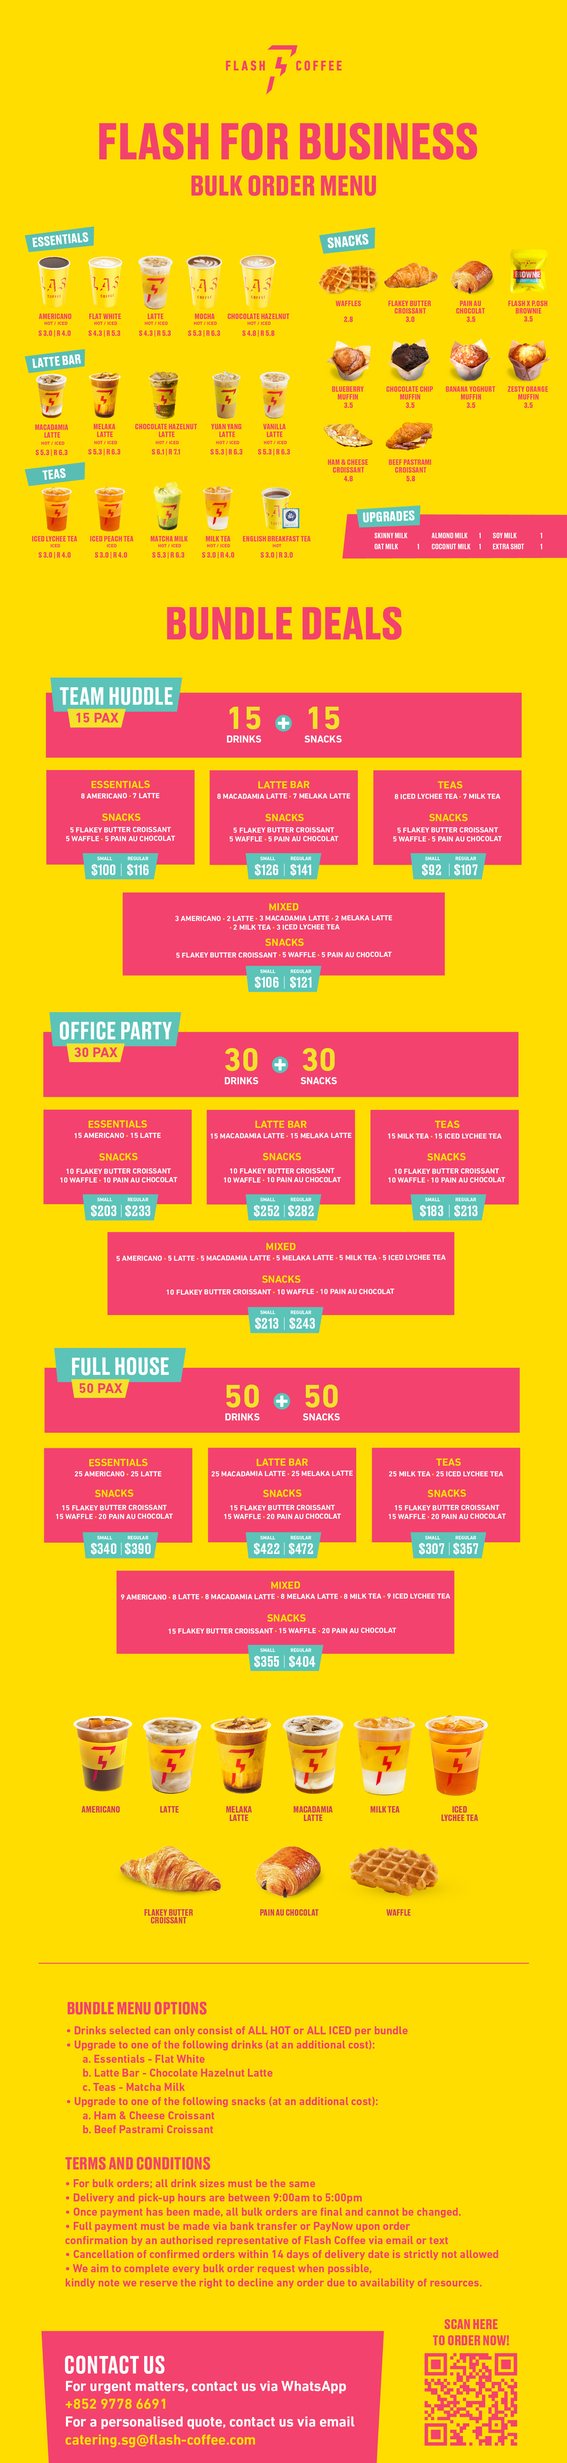
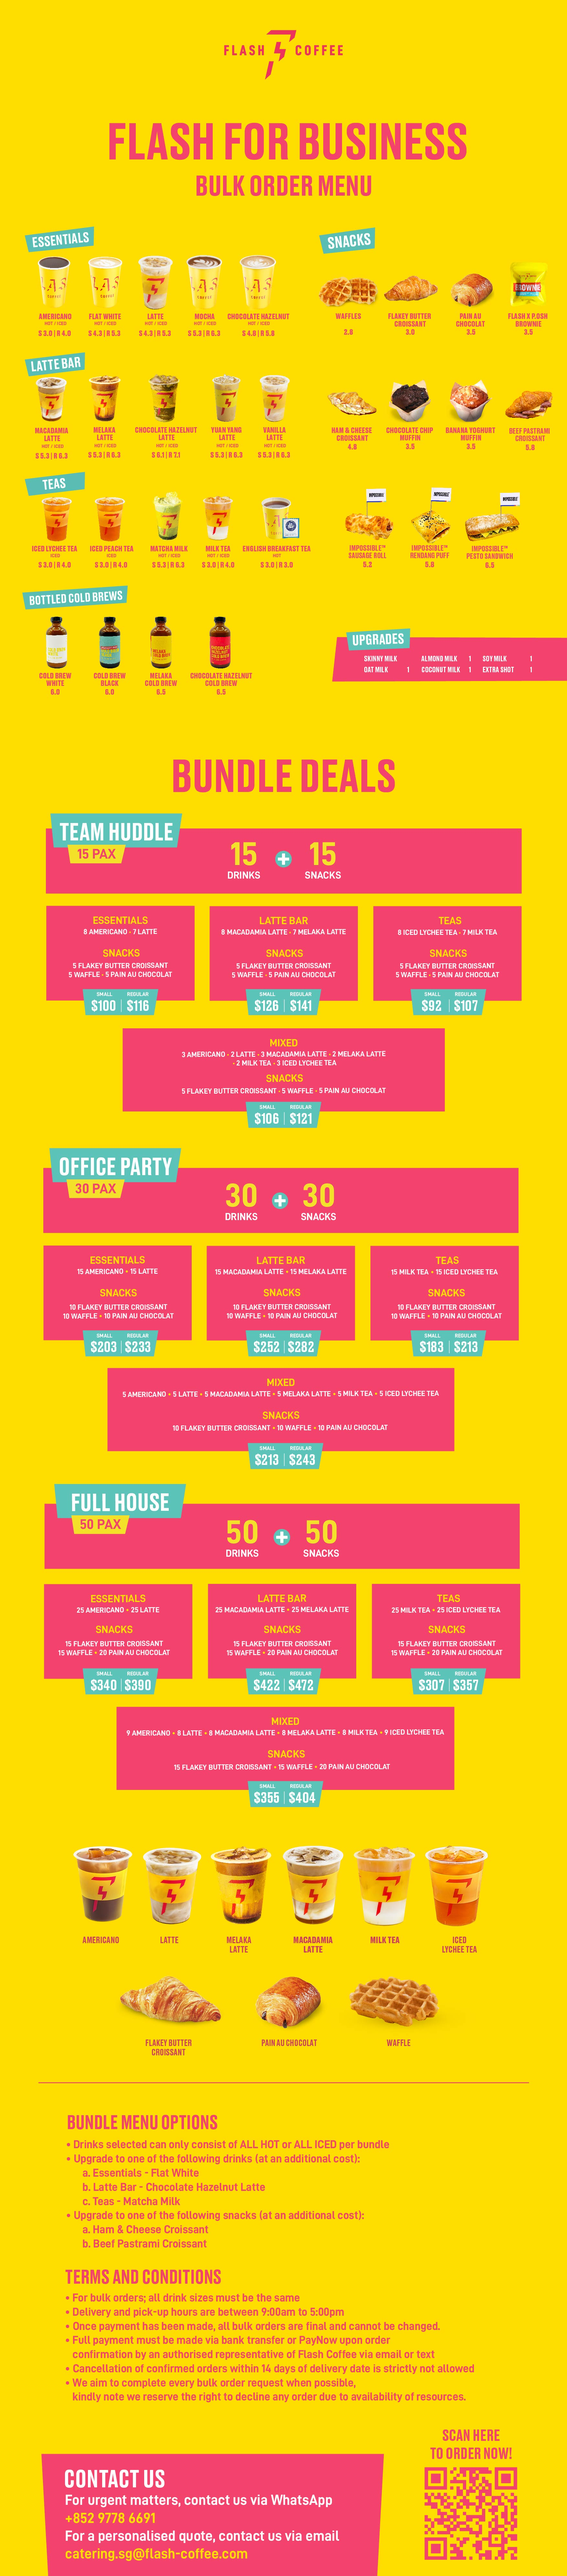
2.1

diff --git a/components/Bundle1.js b/components/Bundle1.js
@@ -8,8 +8,39 @@ import bundlepic from '../public/coffee pic/bundle.JPG'
 
 function Bundle1(props) {
 
+
+  const [essential, setessential] = useState(0);
+  const [essentialprice, setessentialprice] = useState(116);
+  const [plus1, setplus1] = useState(0);
+  const [plus2, setplus2] = useState(0);
+  const [plus3, setplus3] = useState(0);
+  const [essentialtotal, setessentialtotal] = useState(0);
+  const [eoption1, seteoption1] = useState("Hot");
+  const [eoption2, seteoption2] = useState("Americano");
+  const [eoption3, seteoption3] = useState("Latte");
+  const [eoption4, seteoption4] = useState("Flakey Butter Croissant");
+  const [eoption5, seteoption5] = useState("Waffles");
+  const [eoption6, seteoption6] = useState("Pain au Chocolat");
+
+  const [lattebar, setlattebar] = useState(0);
+  const [lattebarprice, setlattebarprice] = useState(141);
+  const [lattebartotal, setlattebartotal] = useState(0);
+  const [lplus1, setlplus1] = useState(0);
+  const [lplus2, setlplus2] = useState(0);
+  const [lplus3, setlplus3] = useState(0);
+  const [lplus4, setlplus4] = useState(0);
+  const [lplus5, setlplus5] = useState(0);
+
+  const [loption1, setloption1] = useState("Hot");
+  const [loption2, setloption2] = useState("Macadamia Latte");
+  const [loption3, setloption3] = useState("Melaka Latte");
+  const [loption4, setloption4] = useState("Flakey Butter Croissant");
+  const [loption5, setloption5] = useState("Waffles");
+  const [loption6, setloption6] = useState("Pain au Chocolat");
+
+
   const [tea, settea] = useState(0);
-  const [teaprice, setteaprice] = useState(110);
+  const [teaprice, setteaprice] = useState(107);
   const [teatotal, setteatotal] = useState(0);
   const [tplus1, settplus1] = useState(0);
   const [tplus2, settplus2] = useState(0);
@@ -25,7 +56,7 @@ function Bundle1(props) {
   const [toption6, settoption6] = useState("Pain au Chocolat");
 
   const [mixed, setmixed] = useState(0);
-  const [mixedprice, setmixedprice] = useState(124);
+  const [mixedprice, setmixedprice] = useState(121);
   const [mixedtotal, setmixedtotal] = useState(0);
   const [mplus1, setmplus1] = useState(0);
   const [mplus2, setmplus2] = useState(0);
@@ -45,34 +76,6 @@ function Bundle1(props) {
   const [moption9, setmoption9] = useState("Waffles");
   const [moption10, setmoption10] = useState("Pain au Chocolat");
 
-  const [essential, setessential] = useState(0);
-  const [essentialprice, setessentialprice] = useState(119);
-  const [plus1, setplus1] = useState(0);
-  const [plus2, setplus2] = useState(0);
-  const [plus3, setplus3] = useState(0);
-  const [essentialtotal, setessentialtotal] = useState(0);
-  const [eoption1, seteoption1] = useState("Hot");
-  const [eoption2, seteoption2] = useState("Americano");
-  const [eoption3, seteoption3] = useState("Latte");
-  const [eoption4, seteoption4] = useState("Flakey Butter Croissant");
-  const [eoption5, seteoption5] = useState("Waffles");
-  const [eoption6, seteoption6] = useState("Pain au Chocolat");
-
-  const [lattebar, setlattebar] = useState(0);
-  const [lattebarprice, setlattebarprice] = useState(145);
-  const [lattebartotal, setlattebartotal] = useState(0);
-  const [lplus1, setlplus1] = useState(0);
-  const [lplus2, setlplus2] = useState(0);
-  const [lplus3, setlplus3] = useState(0);
-  const [lplus4, setlplus4] = useState(0);
-  const [lplus5, setlplus5] = useState(0);
-
-  const [loption1, setloption1] = useState("Hot");
-  const [loption2, setloption2] = useState("Macadamia Latte");
-  const [loption3, setloption3] = useState("Melaka Latte");
-  const [loption4, setloption4] = useState("Flakey Butter Croissant");
-  const [loption5, setloption5] = useState("Waffles");
-  const [loption6, setloption6] = useState("Pain au Chocolat");
 
   const[text,settext] = useState( {summary:'',bundle1set1:'',price:'',total:'',option1:'',option2:'',option3:'',option4:'',option5:'',option6:''})
   const[text2,settext2] = useState( {summary:'',bundle1set2:'',price:'',total:'',option1:'',option2:'',option3:'',option4:'',option5:'',option6:''})
@@ -392,15 +395,15 @@ console.log(text4)
 
   useEffect(() => {
     if (props.size == "Regular") {
-      setessentialprice(119);
-      setteaprice(110);
-      setlattebarprice(145);
-      setmixedprice(124);
+      setessentialprice(116);
+      setteaprice(107);
+      setlattebarprice(141);
+      setmixedprice(121);
     } else if (props.size == "Small") {
-      setessentialprice(104);
-      setteaprice(95);
-      setlattebarprice(130);
-      setmixedprice(109);
+      setessentialprice(100);
+      setteaprice(92);
+      setlattebarprice(126);
+      setmixedprice(106);
     }
   }, [props.size]);
 

diff --git a/components/Bundle3.js b/components/Bundle3.js
@@ -9,7 +9,7 @@ import bundlepic from '../public/coffee pic/bundle.JPG'
 
 function Bundle3(props,ref) {
   const [tea, settea] = useState(0);
-  const [teaprice, setteaprice] = useState(368);
+  const [teaprice, setteaprice] = useState(357);
   const [teatotal, setteatotal] = useState(0);
   const [tplus1, settplus1] = useState(0);
   const [tplus2, settplus2] = useState(0);
@@ -26,7 +26,7 @@ function Bundle3(props,ref) {
   const [toption6, settoption6] = useState("Pain au Chocolat");
 
   const [mixed, setmixed] = useState(0);
-  const [mixedprice, setmixedprice] = useState(415);
+  const [mixedprice, setmixedprice] = useState(404);
   const [mixedtotal, setmixedtotal] = useState(0);
   const [mplus1, setmplus1] = useState(0);
   const [mplus2, setmplus2] = useState(0);
@@ -47,7 +47,7 @@ function Bundle3(props,ref) {
   const [moption10, setmoption10] = useState("Pain au Chocolat");
 
   const [essential, setessential] = useState(0);
-  const [essentialprice, setessentialprice] = useState(400);
+  const [essentialprice, setessentialprice] = useState(390);
   const [plus1, setplus1] = useState(0);
   const [plus2, setplus2] = useState(0);
   const [plus3, setplus3] = useState(0);
@@ -60,7 +60,7 @@ function Bundle3(props,ref) {
   const [eoption6, seteoption6] = useState("Pain au Chocolat");
 
   const [lattebar, setlattebar] = useState(0);
-  const [lattebarprice, setlattebarprice] = useState(483);
+  const [lattebarprice, setlattebarprice] = useState(472);
   const [lattebartotal, setlattebartotal] = useState(0);
   const [lplus1, setlplus1] = useState(0);
   const [lplus2, setlplus2] = useState(0);
@@ -385,15 +385,15 @@ function Bundle3(props,ref) {
 
   useEffect(() => {
     if (props.size == "Regular") {
-      setessentialprice(400);
-      setteaprice(368);
-      setlattebarprice(483);
-      setmixedprice(415);
+      setessentialprice(390);
+      setteaprice(357);
+      setlattebarprice(472);
+      setmixedprice(404);
     } else if (props.size == "Small") {
-      setessentialprice(350);
-      setteaprice(318);
-      setlattebarprice(433);
-      setmixedprice(365);
+      setessentialprice(340);
+      setteaprice(307);
+      setlattebarprice(422);
+      setmixedprice(355);
     }
   }, [props.size]);
 

diff --git a/components/Bundle2.js b/components/Bundle2.js
@@ -10,7 +10,7 @@ import bundlepic from '../public/coffee pic/bundle.JPG'
 
 function Bundle2(props) {
   const [tea, settea] = useState(0);
-  const [teaprice, setteaprice] = useState(220);
+  const [teaprice, setteaprice] = useState(213);
   const [teatotal, setteatotal] = useState(0);
   const [tplus1, settplus1] = useState(0);
   const [tplus2, settplus2] = useState(0);
@@ -26,7 +26,7 @@ function Bundle2(props) {
   const [toption6, settoption6] = useState("Pain au Chocolat");
 
   const [mixed, setmixed] = useState(0);
-  const [mixedprice, setmixedprice] = useState(250);
+  const [mixedprice, setmixedprice] = useState(243);
   const [mixedtotal, setmixedtotal] = useState(0);
   const [mplus1, setmplus1] = useState(0);
   const [mplus2, setmplus2] = useState(0);
@@ -47,7 +47,7 @@ function Bundle2(props) {
   const [moption10, setmoption10] = useState("Pain au Chocolat");
 
   const [essential, setessential] = useState(0);
-  const [essentialprice, setessentialprice] = useState(240);
+  const [essentialprice, setessentialprice] = useState(233);
   const [plus1, setplus1] = useState(0);
   const [plus2, setplus2] = useState(0);
   const [plus3, setplus3] = useState(0);
@@ -60,7 +60,7 @@ function Bundle2(props) {
   const [eoption6, seteoption6] = useState("Pain au Chocolat");
 
   const [lattebar, setlattebar] = useState(0);
-  const [lattebarprice, setlattebarprice] = useState(289);
+  const [lattebarprice, setlattebarprice] = useState(282);
   const [lattebartotal, setlattebartotal] = useState(0);
   const [lplus1, setlplus1] = useState(0);
   const [lplus2, setlplus2] = useState(0);
@@ -382,15 +382,15 @@ function Bundle2(props) {
 
   useEffect(() => {
     if (props.size == "Regular") {
-      setessentialprice(240);
-      setteaprice(220);
-      setlattebarprice(289);
-      setmixedprice(250);
+      setessentialprice(233);
+      setteaprice(213);
+      setlattebarprice(282);
+      setmixedprice(243);
     } else if (props.size == "Small") {
-      setessentialprice(210);
-      setteaprice(190);
-      setlattebarprice(259);
-      setmixedprice(220);
+      setessentialprice(203);
+      setteaprice(183);
+      setlattebarprice(252);
+      setmixedprice(213);
     }
   }, [props.size]);
 
